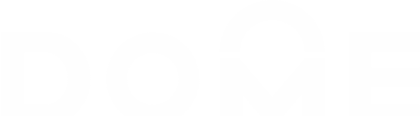
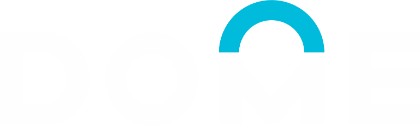
Corrige o recorte do logotipo da DOME
Dois erros no mesmo arquivo.

1. O RECORTE ESTAVA FATIANDO AS LETRAS. Eu cortava o descritor em 63% da
   altura, escolhido no olho. Medindo os pixels, o wordmark vai ate y=920 de
   1353 - ou seja, 68px das letras iam junto com o corte, e o M ficava sem pe.
   Agora a caixa e medida: varro as linhas e colunas com tinta, agrupo em
   faixas, e a primeira faixa e o wordmark. Recorte exato, 3075x921.

2. ERA A VERSAO ERRADA DO LOGO. Estava usando Logo_Branca, toda branca, sobre
   o cabecalho navy - o arco sumia dentro do M. A DOME tem uma versao para
   fundo escuro, Logo_Branca_Azul, com as letras brancas e o ARCO EM CIANO. E
   essa, e ela ainda conversa com o acento do app e com a marca do jogo.

Logo do cabecalho subiu de 18 para 20px, e a peca de divulgacao foi regerada
com o arquivo novo.

Changed region(s): [[0.4952, 0.0, 0.7738, 0.4397]]

diff --git a/src/estilo/base.css b/src/estilo/base.css
@@ -182,7 +182,7 @@ a:hover {
 }
 .marca__dome {
   flex: none;
-  height: 1.125rem;
+  height: 1.25rem;
   width: auto;
 }
 .marca__risco {
